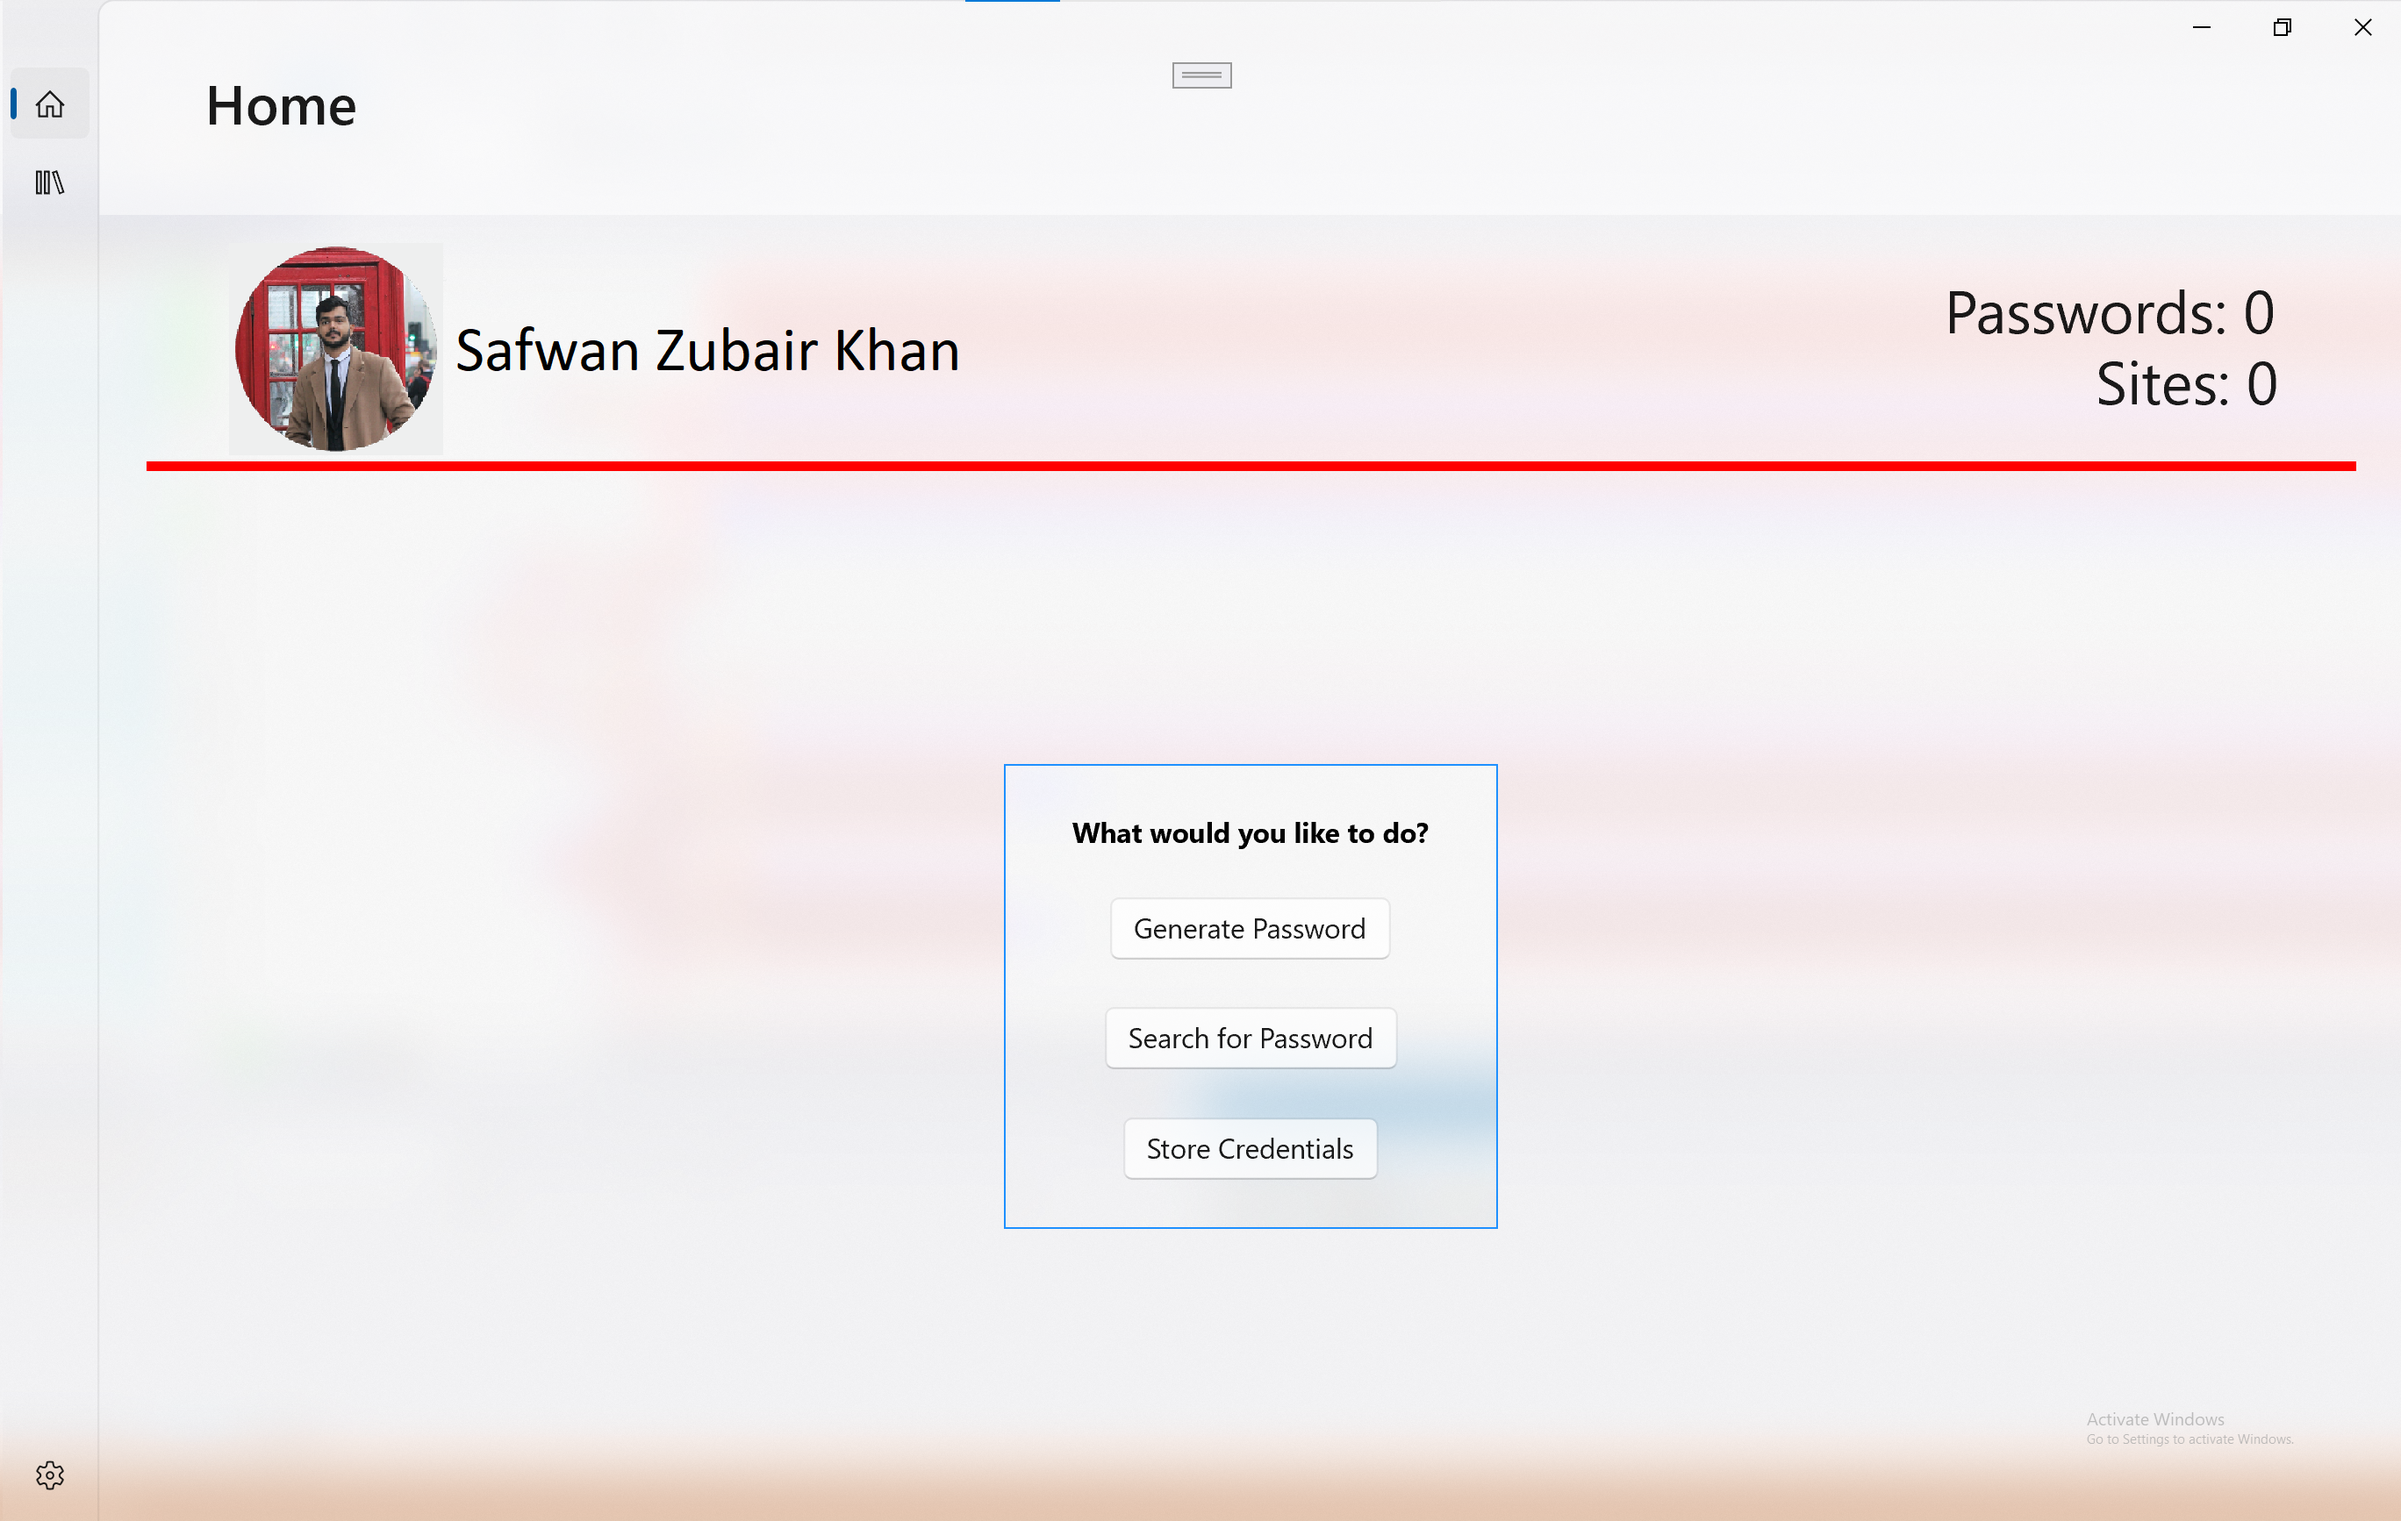
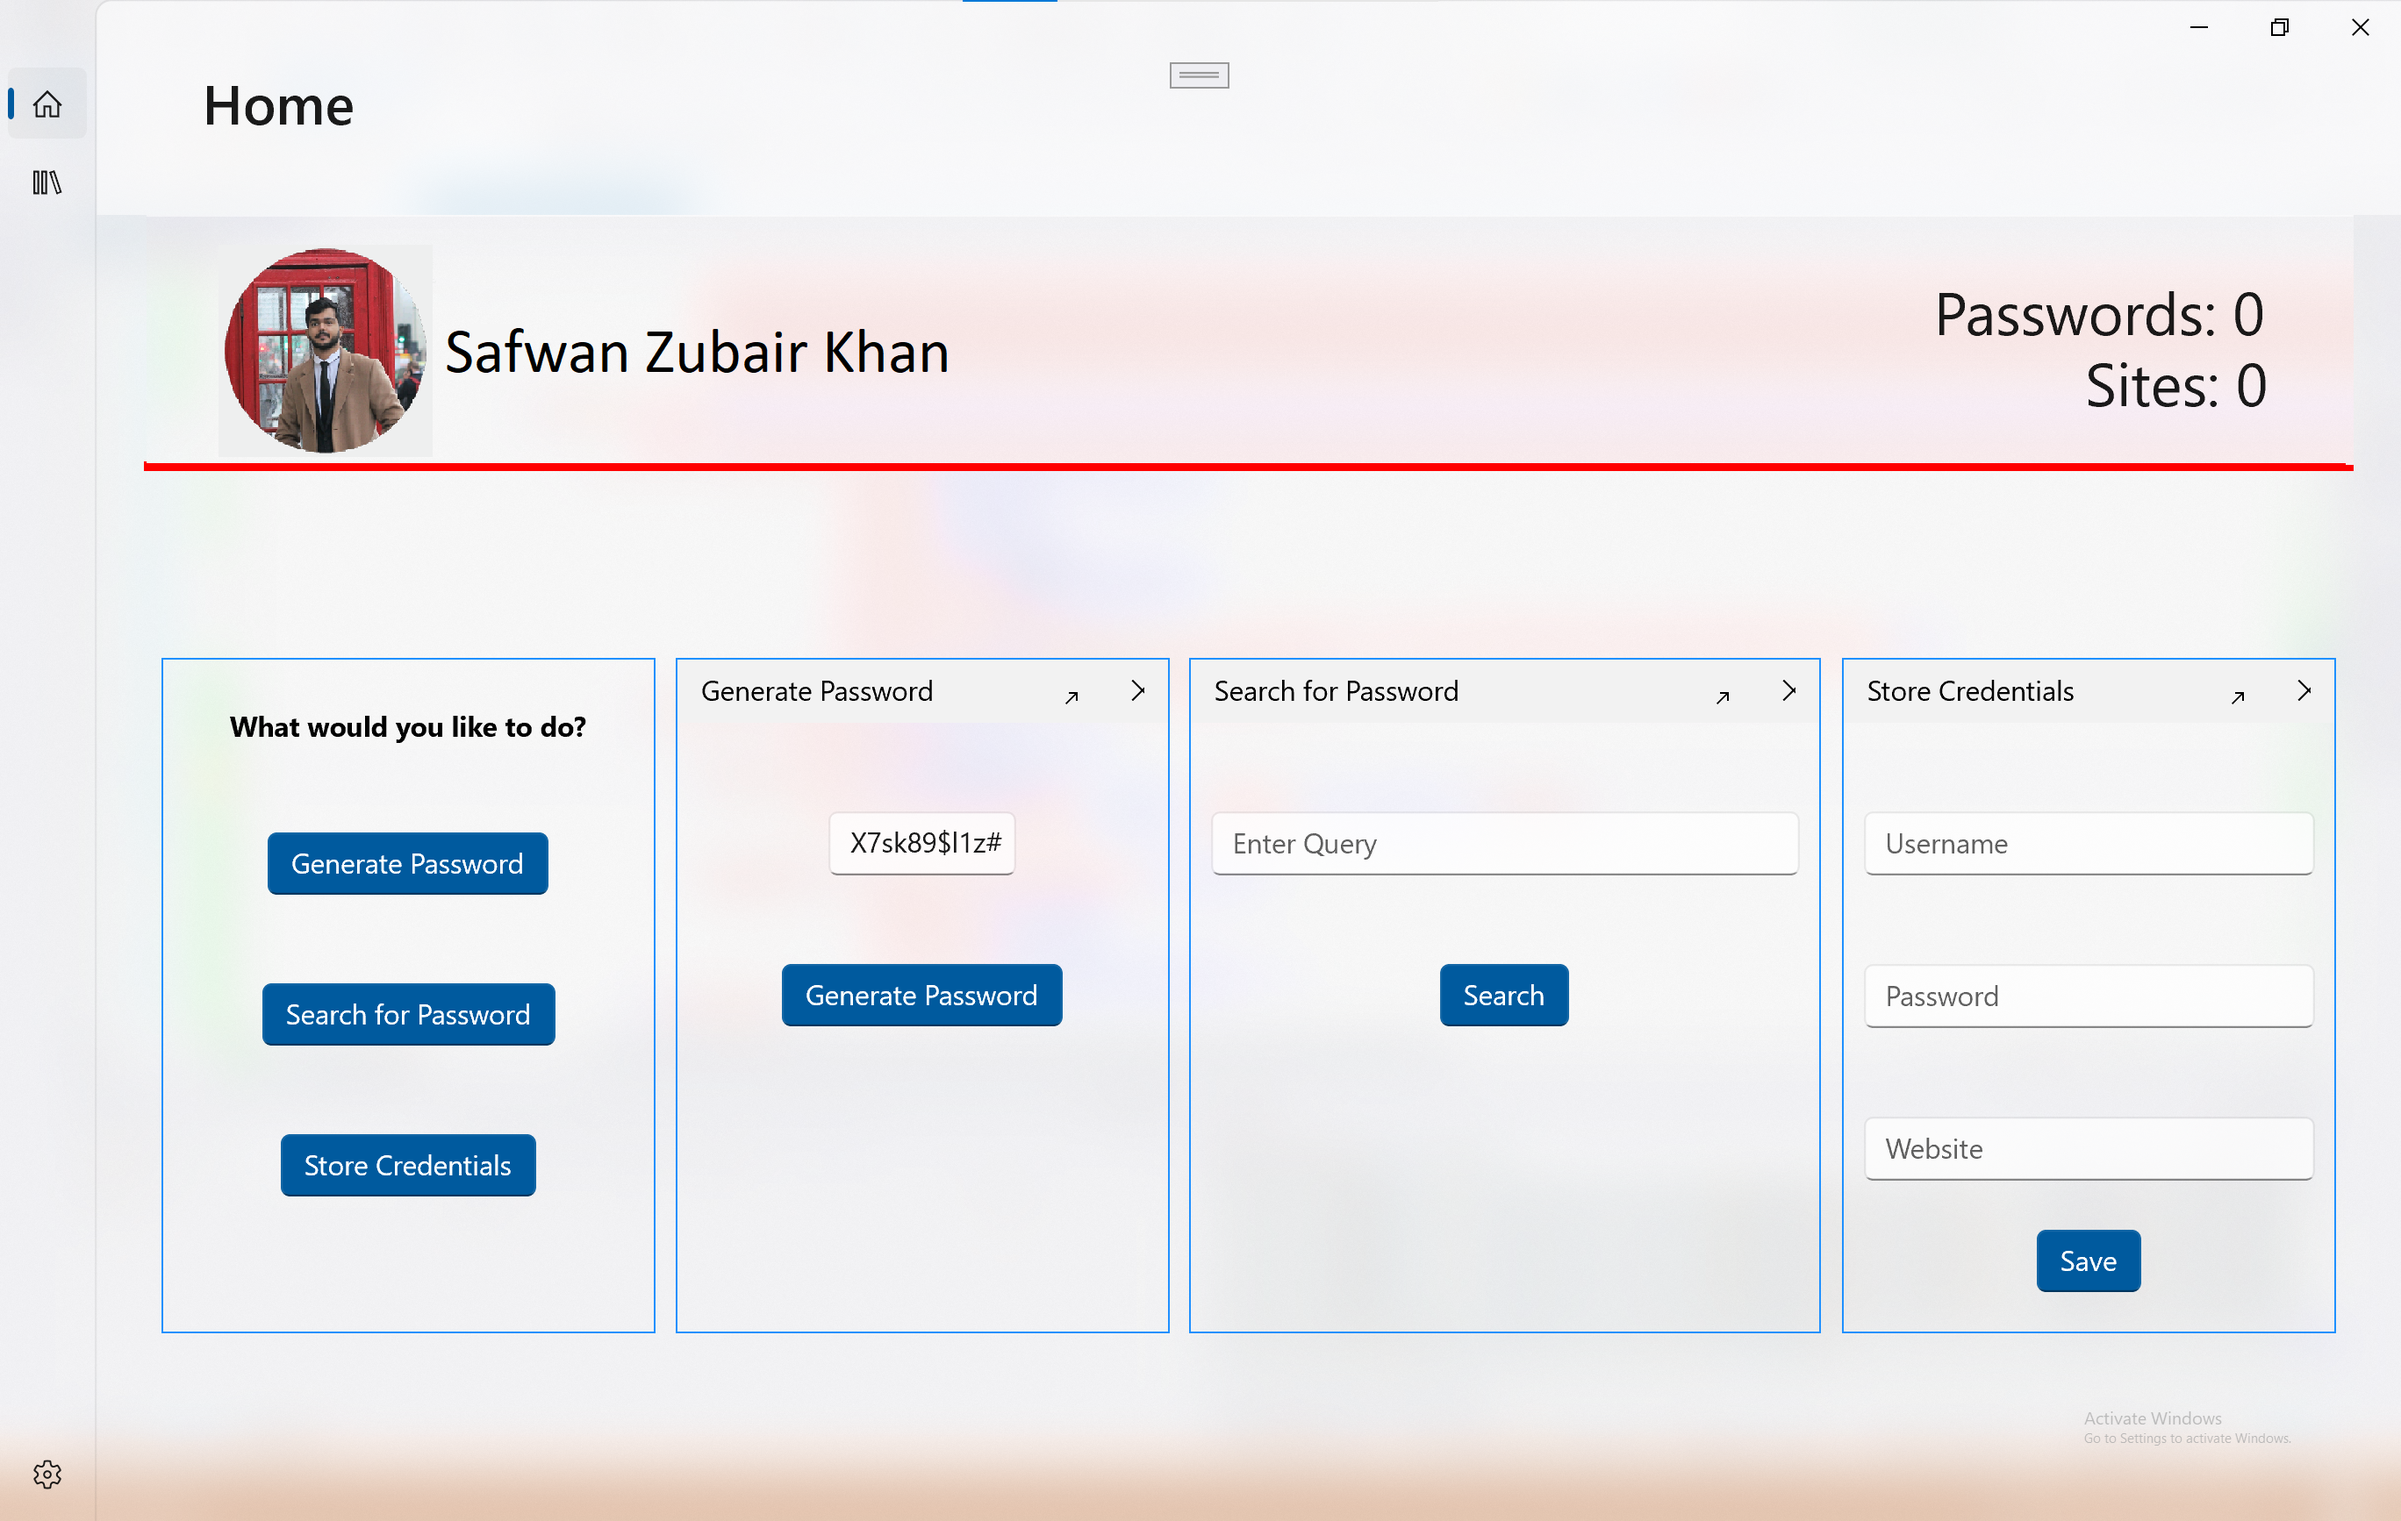
V0.0.8 Basic Blades updated

diff --git a/Project-Alpha/Project-Alpha/Views/MainPage.xaml b/Project-Alpha/Project-Alpha/Views/MainPage.xaml
@@ -11,9 +11,9 @@
       Style="{StaticResource PageStyle}"
       Background="{ThemeResource SystemControlChromeMediumAcrylicWindowMediumBrush}"
       mc:Ignorable="d">
-  
+
     <Page.Resources>
-        
+
         <Style x:Key="BladeStyle"
                TargetType="controls:BladeItem">
             <Setter Property="Header"
@@ -32,7 +32,7 @@
             <RowDefinition Height="125" />
             <RowDefinition Height="5" />
             <RowDefinition Height="*" />
-           
+
         </Grid.RowDefinitions>
         <Grid Grid.Row="0"
               Grid.Column="0"
@@ -94,7 +94,7 @@
         <Grid Grid.Row="2"
               Grid.Column="0"
               Grid.ColumnSpan="3">
-           
+
             <RelativePanel>
 
                 <StackPanel x:Name="QuickAccessPanel"
@@ -115,9 +115,8 @@
                                         HorizontalAlignment="Stretch"
                                         VerticalAlignment="Stretch"
                                         BladeMode="Normal"
-                                       
                                         AutoCollapseCountThreshold="4">
-                      
+
 
                         <!-- background tinkted with acrylic -->
                         <controls:BladeItem x:Name="FirstBlade"
@@ -133,25 +132,29 @@
                                 <StackPanel Margin="24">
 
 
-                                    <TextBlock HorizontalAlignment="Center" Text="What would you like to do?"
+                                    <TextBlock HorizontalAlignment="Center"
+                                               Text="What would you like to do?"
                                                FontWeight="Bold"
                                                TextWrapping="WrapWholeWords" />
-                                    <ToggleButton  HorizontalAlignment="Center" Margin="0,24,0,0"
-                                                  Content="Generate Password"
-                                                  IsChecked="{Binding IsOpen, Mode=TwoWay, ElementName=SecondBlade}" />
-                                    <ToggleButton  HorizontalAlignment="Center" Margin="0,24,0,0"
-                                                  Content="Search for Password"
-                                                  IsChecked="{Binding IsOpen, Mode=TwoWay, ElementName=ThirdBlade}" />
-                                    <ToggleButton  HorizontalAlignment="Center" Margin="0,24,0,0"
-                                                  Content="Store Credentials"
-                                                  IsChecked="{Binding IsOpen, Mode=TwoWay, ElementName=FourthBlade}" />
+                                    <ToggleButton  HorizontalAlignment="Center"
+                                                   Margin="0,45,0,0"
+                                                   Content="Generate Password"
+                                                   IsChecked="{Binding IsOpen, Mode=TwoWay, ElementName=SecondBlade}" />
+                                    <ToggleButton  HorizontalAlignment="Center"
+                                                   Margin="0,45,0,0"
+                                                   Content="Search for Password"
+                                                   IsChecked="{Binding IsOpen, Mode=TwoWay, ElementName=ThirdBlade}" />
+                                    <ToggleButton  HorizontalAlignment="Center"
+                                                   Margin="0,45,0,0"
+                                                   Content="Store Credentials"
+                                                   IsChecked="{Binding IsOpen, Mode=TwoWay, ElementName=FourthBlade}" />
                                     <!--<Button  x:Name="AddBlade"
                                              Margin="0,24,0,0"
                                              Content="Add Blade" />-->
                                 </StackPanel>
                             </ScrollViewer>
                         </controls:BladeItem>
-                        
+
                         <controls:BladeItem x:Name="SecondBlade"
                                             Header="Generate Password"
                                             IsOpen="False"
@@ -160,14 +163,19 @@
                                             BorderThickness="1"
                                             Background="{ThemeResource SystemControlChromeMediumAcrylicWindowMediumBrush}"
                                             Style="{StaticResource BladeStyle}">
+                            <StackPanel Name="BladeFirst"
+                                        Orientation="Vertical">
+                                <TextBox Text="Password"
+                                         HorizontalAlignment="Center" Margin="0,45,0,0"></TextBox>
 
-                           
-                            
-                            <TextBlock Margin="24"
-                                       HorizontalAlignment="Center"
-                                       VerticalAlignment="Center"
-                                       Style="{StaticResource SubtitleTextBlockStyle}"
-                                       Text="This blade generates a password." />
+                                <ToggleButton HorizontalAlignment="Center"
+                                              Margin="0,45,0,0"
+                                              IsChecked="True"
+                                              Content="Generate Password" />
+                            </StackPanel>
+
+
+
                         </controls:BladeItem>
 
                         <controls:BladeItem x:Name="ThirdBlade"
@@ -194,11 +202,16 @@
                                                Foreground="Black" />
                                 </DataTemplate>
                             </controls:BladeItem.HeaderTemplate>-->
-                            <TextBlock Margin="24"
-                                       HorizontalAlignment="Center"
-                                       VerticalAlignment="Center"
-                                       Style="{StaticResource SubtitleTextBlockStyle}"
-                                       Text="This blade searches for passoword." />
+                           
+                            <StackPanel Name="BladeSecond"
+                                        Orientation="Vertical">
+                                                              
+                                <TextBox Name="BladeSecondSearch" PlaceholderText="Enter Query" VerticalAlignment="Center" Margin="10,45,10,0"/>
+                                <ToggleButton HorizontalAlignment="Center"
+                                              IsChecked="True"
+                                              Margin="0,45,0,0"
+                                              Content="Search" />
+                            </StackPanel>
                         </controls:BladeItem>
 
                         <controls:BladeItem x:Name="FourthBlade"
@@ -209,12 +222,30 @@
                                             IsOpen="False"
                                             Background="{ThemeResource SystemControlChromeMediumAcrylicWindowMediumBrush}"
                                             Margin="10,0,0,0">
+                            <StackPanel Name="BladeThird"
+                                        Orientation="Vertical">
+
+                                <TextBox Name="BladeThirdUsername"
+                                         PlaceholderText="Username"
+                                         VerticalAlignment="Center"
+                                         Margin="10,45,10,0" />
+                                <TextBox Name="BladeThirdPassword"
+                                         PlaceholderText="Password"
+                                         VerticalAlignment="Center"
+                                         Margin="10,45,10,0" />
+                                <TextBox Name="BladeThirdWebsite"
+                                         PlaceholderText="Website"
+                                         VerticalAlignment="Center"
+                                         Margin="10,45,10,0" />
+                                <ToggleButton Name="BladeThreeSaveButton"
+                                              HorizontalAlignment="Center"
+                                              Margin="0,25,0,20"
+                                              Content="Save"
+                                              IsChecked="True"
+                                              Click="BladeThreeSave_Click"
+                                              />
+                            </StackPanel>
                             
-                            <TextBlock Margin="24"
-                                       HorizontalAlignment="Center"
-                                       VerticalAlignment="Center"
-                                       Style="{StaticResource SubtitleTextBlockStyle}"
-                                       Text="This blade stores credentials." />
 
                         </controls:BladeItem>
 
@@ -261,7 +292,7 @@
             </RelativePanel>
         </Grid>
 
-        
+
     </Grid>
 
 

diff --git a/Project-Alpha/Project-Alpha/Views/MainPage.xaml.cs b/Project-Alpha/Project-Alpha/Views/MainPage.xaml.cs
@@ -165,5 +165,13 @@ namespace Project_Alpha.Views
         }
 
         private void OnPropertyChanged(string propertyName) => PropertyChanged?.Invoke(this, new PropertyChangedEventArgs(propertyName));
+
+        private void BladeThreeSave_Click(object sender, RoutedEventArgs e)
+        {
+
+            BladeThreeSaveButton.IsChecked = false;
+            BladeThreeSaveButton.IsChecked = true;
+
+        }
     }
 }
